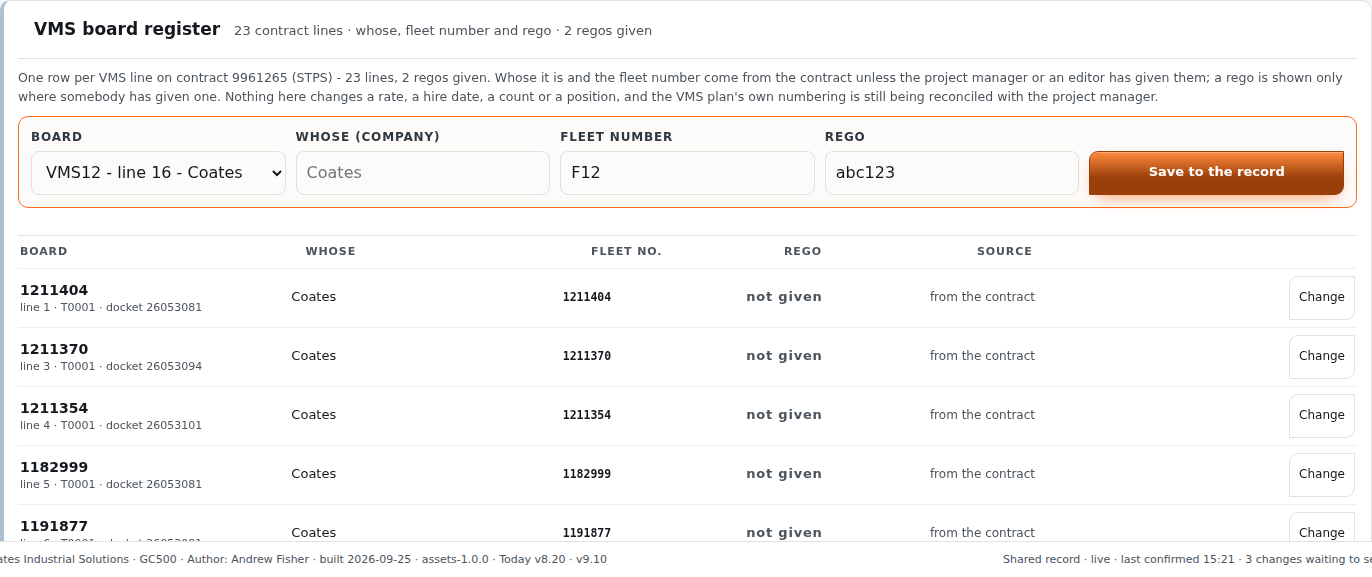
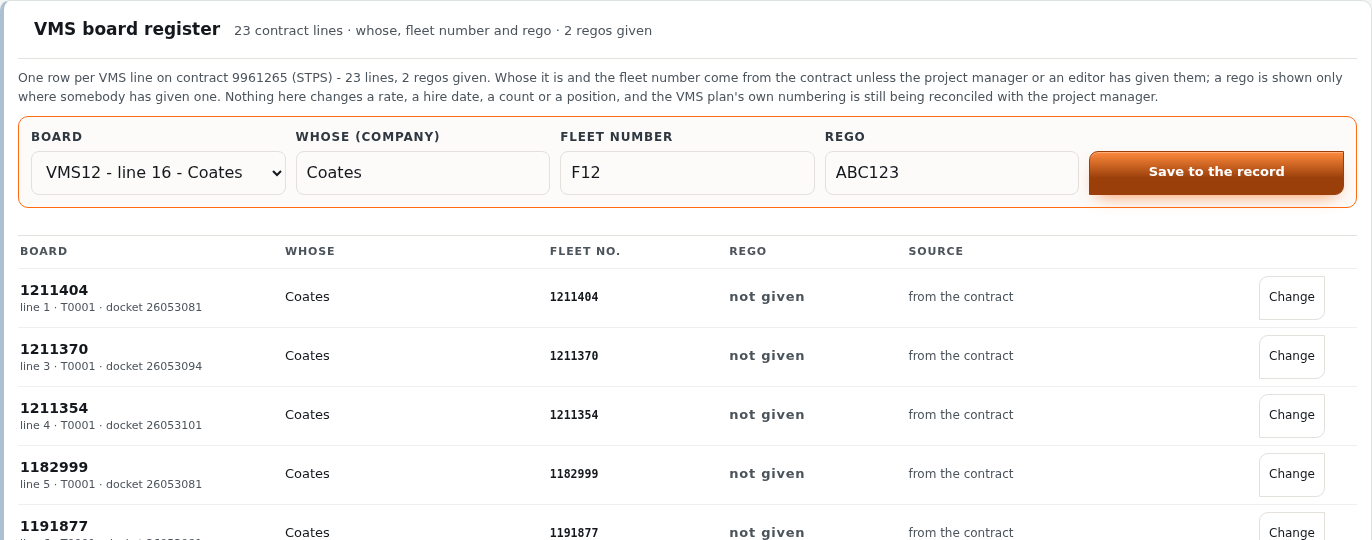
WIP: board: roster + readable dropdowns claimed (v9.12_roster_DRAFT); pin audit resumed; v9.09 C/D reviews clean (not READY)
Claude-Session: https://claude.ai/code/session_01BQwk5iUoysfHRmoPUtnkBd

diff --git a/03_GC500_Delivery_Control/v9.13_vms_rego_DRAFT/patch_v913_vms_rego.py b/03_GC500_Delivery_Control/v9.13_vms_rego_DRAFT/patch_v913_vms_rego.py
@@ -116,8 +116,9 @@ function vms913Save(key, co, fleet, rego){
  S.vmsboard = S.vmsboard || {};
  S.vmsboard[b.key] = {co: c.co, fleet: c.fleet, rego: c.rego, line: b.contract + '/' + b.line, by: who, at: new Date().toISOString()};
  stampIt('vmsboard', b.key, who);
- bump();
  const v = vms913Of(b);
+ vms913St().draft = {key: b.key, co: v.co || '', fleet: v.fleet || '', rego: v.rego || ''}; /* the form shows what was saved */
+ bump();
  flash(b.name + ' saved: ' + v.co + ' · fleet no. ' + (v.fleet || 'not given') + ' · rego ' + (v.rego || 'not given') + '. By ' + who + '.');
  return true;
 }
@@ -153,7 +154,7 @@ function vms913Html(bs){
  return `<p class="vms913note">One row per VMS line on contract ${esc(contracts.join(', '))} - ${bs.length} lines, ${given} rego${given === 1 ? '' : 's'} given.
  Whose it is and the fleet number come from the contract unless the project manager or an editor has given them; a rego is shown only where somebody has given one.
  Nothing here changes a rate, a hire date, a count or a position, and the VMS plan's own numbering is still being reconciled with the project manager.</p>
- ${form}<div class="vms913list"><div class="vms913row head" aria-hidden="true"><span>Board</span><span>Whose</span><span>Fleet no.</span><span>Rego</span><span>Source</span>${ed ? '<span></span>' : ''}</div>${rows}</div>`;
+ ${form}<div class="vms913list${ed ? ' ed' : ''}"><div class="vms913row head" aria-hidden="true"><span>Board</span><span>Whose</span><span>Fleet no.</span><span>Rego</span><span>Source</span>${ed ? '<span></span>' : ''}</div>${rows}</div>`;
 }
 function vms913Bind(root){
  const st = vms913St(), $f = id => root.querySelector('#' + id);
@@ -223,7 +224,8 @@ CSS = '''
 .vms913form .act .btn{width:100%}
 .vms913msg{min-height:1em;margin:0 0 8px;font-size:13px;color:var(--red);font-weight:600}
 .vms913list{border-top:1px solid var(--rule)}
-.vms913row{display:grid;grid-template-columns:minmax(120px,1.2fr) minmax(110px,1.2fr) minmax(80px,.8fr) minmax(80px,.8fr) minmax(140px,1.6fr) auto;gap:8px;align-items:center;padding:7px 2px;border-bottom:1px solid var(--rule2);font-size:13px;min-width:0}
+.vms913row{display:grid;grid-template-columns:minmax(120px,1.2fr) minmax(110px,1.2fr) minmax(80px,.8fr) minmax(80px,.8fr) minmax(140px,1.6fr);gap:8px;align-items:center;padding:7px 2px;border-bottom:1px solid var(--rule2);font-size:13px;min-width:0}
+.vms913list.ed .vms913row{grid-template-columns:minmax(120px,1.2fr) minmax(110px,1.2fr) minmax(80px,.8fr) minmax(80px,.8fr) minmax(140px,1.6fr) 96px}
 .vms913row.head{font-size:11px;text-transform:uppercase;letter-spacing:.08em;color:var(--mute);font-weight:700;padding:8px 2px}
 .vms913row:not(.head)[data-src="word"],.vms913row:not(.head)[data-src="record"]{background:var(--orange-soft)}
 .vms913c{min-width:0;overflow-wrap:anywhere}
@@ -234,7 +236,7 @@ CSS = '''
 .vms913src.word,.vms913src.rec{color:var(--orange-ink);font-weight:700}
 .vms913chip{display:inline-block;max-width:100%;white-space:normal;overflow-wrap:anywhere;font-size:12px;color:var(--orange-ink);font-weight:600}
 @media (max-width:720px){
- .vms913row{grid-template-columns:1fr 1fr;gap:4px 10px;padding:10px 2px}
+ .vms913row,.vms913list.ed .vms913row{grid-template-columns:1fr 1fr;gap:4px 10px;padding:10px 2px}
  .vms913row.head{display:none}
  .vms913c.b,.vms913c.s{grid-column:1 / -1}
  .vms913c.e{grid-column:1 / -1}

diff --git a/03_GC500_Delivery_Control/STATUS.md b/03_GC500_Delivery_Control/STATUS.md
@@ -34,6 +34,13 @@
   - The roster grid answers "which days each person is on". Is that what he meant?
 - **The build follows his yes**, on the latest public page. If Codex's v9.08 is live by then, it is rebuilt on v9.08.
 
+**ANDREW, 8 Oct 2026 ~15:30 AEST: "for the 00th time where is the selection of my workers on the roster its missing still. also your selection boxes here are still all whited out".** Then: "sorry Continue with the pin fix … needs to be 10/10".
+- **Pin audit:** resumed as workflow `wf_7b2231c9-64c`, run `wru6s59qb`.
+- **Roster — CLAIMED `v9.12_roster_DRAFT`** ([6053037807](https://github.com/tatts29-svg/fish/pull/1#issuecomment-6053037807)), workflow `wf_124fed41-560`:
+  - A "Staff on" roster at the top of each Timeline day: tick workers in one tap, "Use roster" and "Enter a name". It saves through `StaffNames910.saveDay`.
+  - Readable dropdowns page-wide. On live v9.10, the Crew selects are near-white on dark teal, and their native option list shows white-on-white on phones.
+- **v9.09 parts C (WC09 count) and D (VMS notes):** reviews done with no blocking findings (C 7 and D 12 should-fix suggestions). Both are built and tested on v9.10: WC09 28/28 on laptop and phone.
+
 **ANDREW, 8 Oct 2026 ~15:25 AEST:** "i need you to work on pin locations on the master your pinned locations and where you have things needs to be 100% accurate with locations are so when people navigate your information is 100 % accurate at all times workimhg off the new master sheet we need toi pin things right to where things need to go".
 - **Claude is auditing every navigation pin** against D001-26003-03, workflow `wf_7b2231c9-64c`, read-only. It compares where the page sends a driver (`dest782`/`dpPos`/`MASTER_LOC`) with where the master draws the unit: the unit's own shape, or the arrow tip of a callout, not the label. Site pins are checked against both.
 - **Classes:** EXACT ≤1 m, CLOSE 1–3 m, OFF >3 m, AREA-ONLY, NOT-ON-MASTER, SITE-DISAGREES. Three skeptics check every discrepancy.
